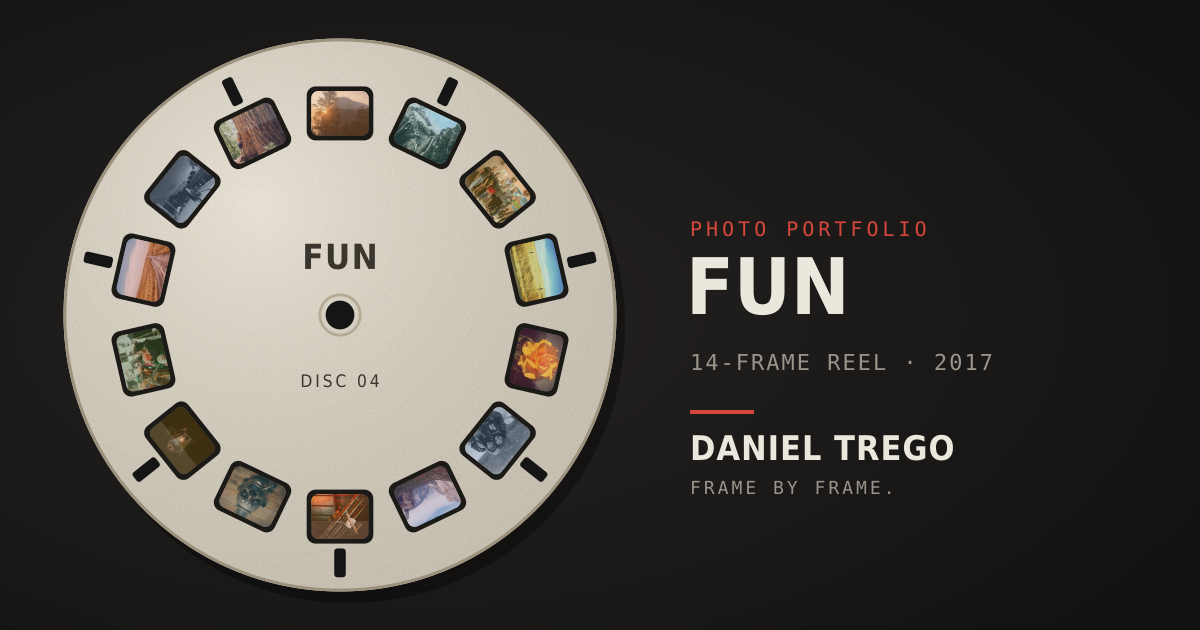
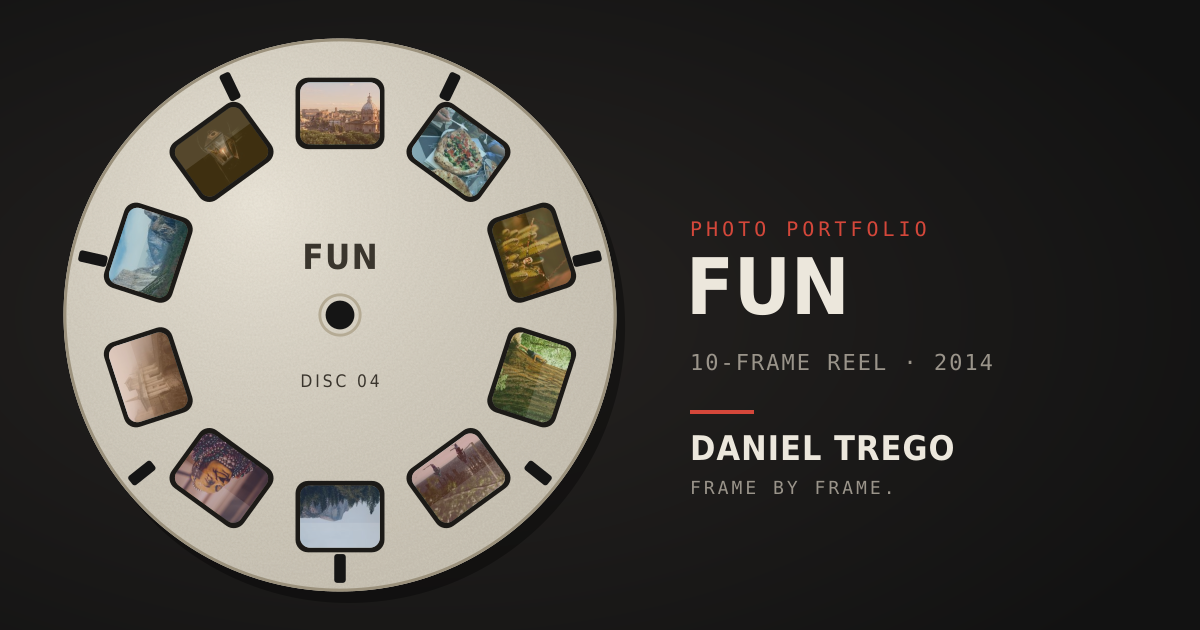
Publish selected website content from private portfolio repo

Changed region(s): [[0.0617, 0.5127, 0.4933, 0.9349], [0.0617, 0.1206, 0.5242, 0.4825], [0.5858, 0.573, 0.6167, 0.6032]]

diff --git a/reel/fun/index.html b/reel/fun/index.html
@@ -1,11 +1,11 @@
 <!DOCTYPE html>
 <html lang="en"><head><meta charset="utf-8">
 <title>Fun · Daniel Trego</title>
-<meta name="description" content="A 14-frame reel, 2017.">
+<meta name="description" content="A 10-frame reel, 2014.">
 <meta property="og:type" content="website">
 <meta property="og:site_name" content="Daniel Trego">
 <meta property="og:title" content="Fun · Daniel Trego">
-<meta property="og:description" content="A 14-frame reel, 2017.">
+<meta property="og:description" content="A 10-frame reel, 2014.">
 <meta property="og:url" content="https://danieltrego.com/reel/fun/">
 <meta property="og:image" content="https://danieltrego.com/reel/fun/card.png">
 <meta property="og:image:width" content="1200">
@@ -13,7 +13,7 @@
 <meta property="og:image:alt" content="Fun reel">
 <meta name="twitter:card" content="summary_large_image">
 <meta name="twitter:title" content="Fun · Daniel Trego">
-<meta name="twitter:description" content="A 14-frame reel, 2017.">
+<meta name="twitter:description" content="A 10-frame reel, 2014.">
 <meta name="twitter:image" content="https://danieltrego.com/reel/fun/card.png">
 <link rel="canonical" href="https://danieltrego.com/reel/fun/">
 <meta http-equiv="refresh" content="0; url=/viewmaster-prototype-v2.html?disc=fun">
